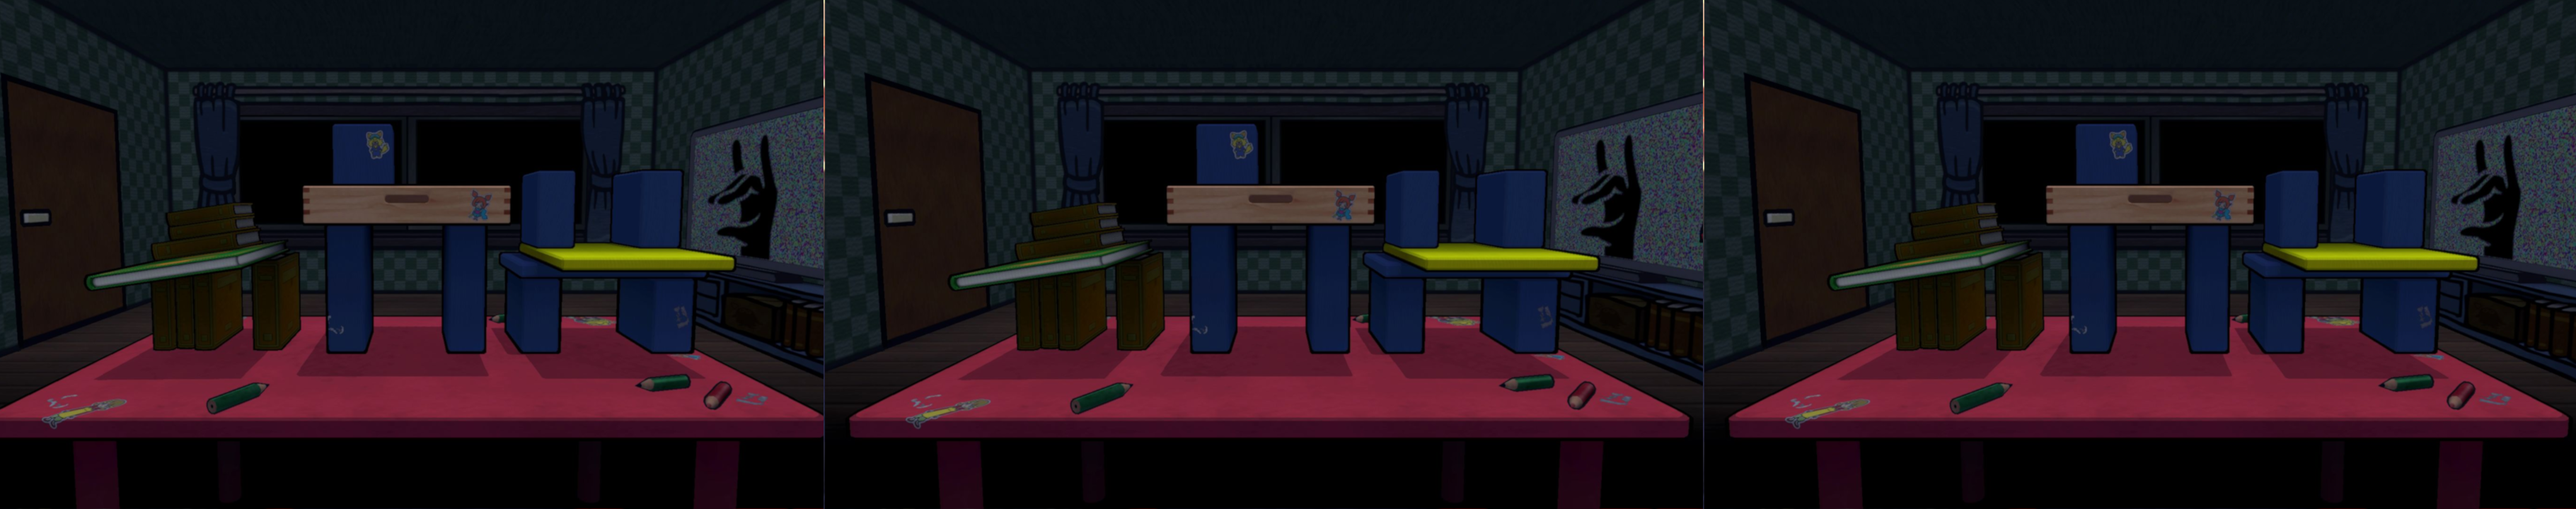
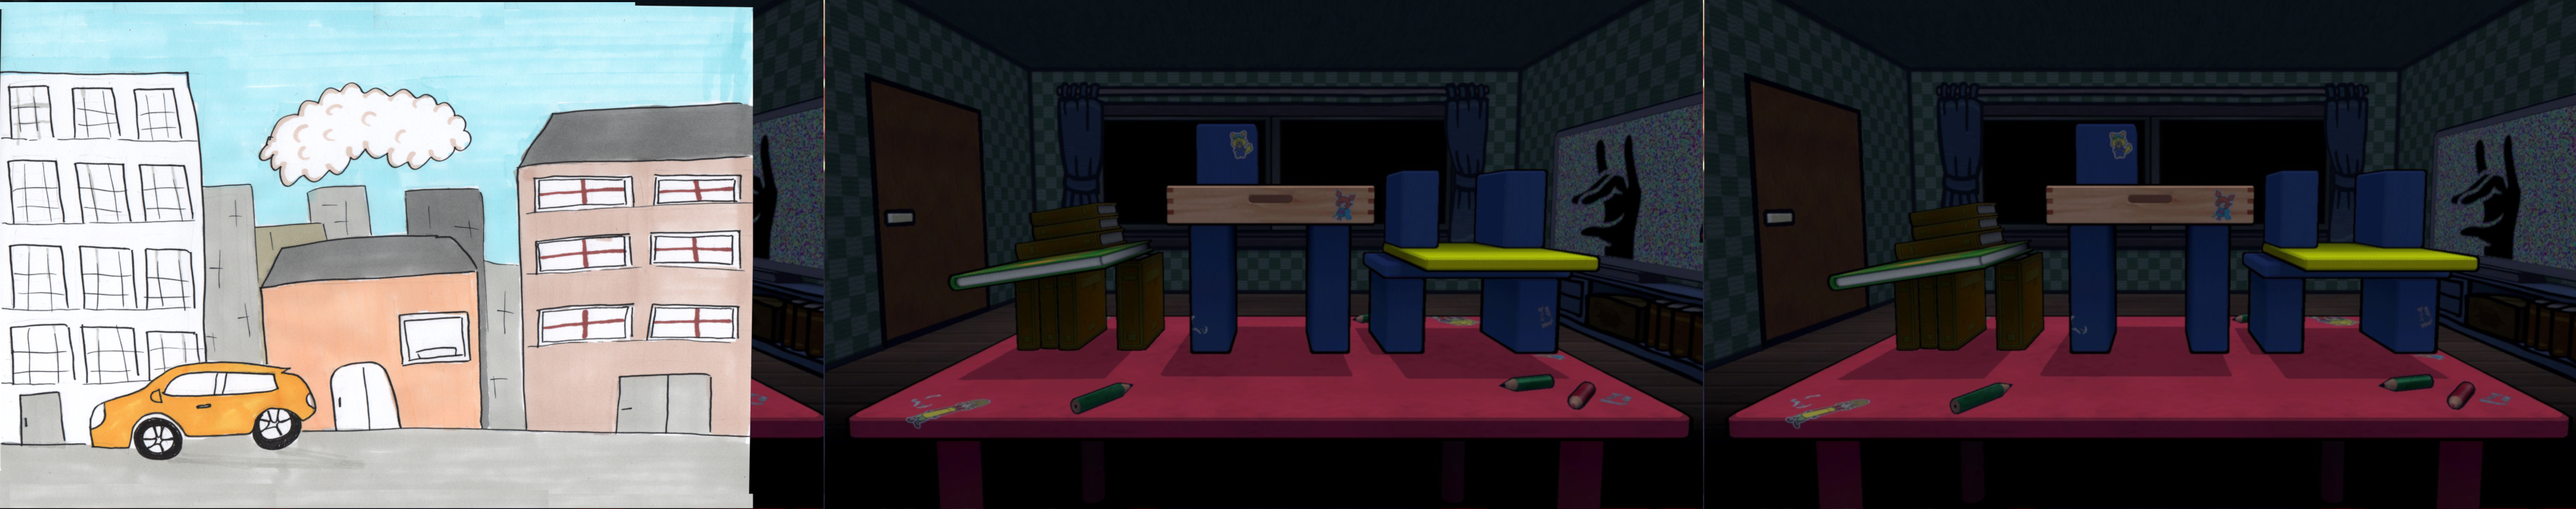
Ajout d'un debut de niveau 1 (mise en commentaire d'une partie du projectile car ça faisait planter le jeu)

Changed region(s): [[0.0, 0.0, 0.3104, 1.0]]

diff --git a/main.py b/main.py
@@ -72,7 +72,7 @@ class Joueur(pygame.sprite.Sprite):
         #Effectue le saut
         if len(platform_hit_list) > 0 or self.rect.bottom >= ECRAN_HAUTEUR:
             sonjump.play()
-            self.change_y = -10#-10 car les coordonnéés partent du haut, cela correspond à +10 dans un repère orthonormé classique
+            self.change_y = -13#-10 car les coordonnéés partent du haut, cela correspond à +10 dans un repère orthonormé classique
 
     def deplacement_gauche(self):
         self.change_x = -6 #on déplace le sprite de 6 pixels
@@ -91,12 +91,14 @@ class Projectile(pygame.sprite.Sprite):
         self.tir = False
     def update(self):
         if self.tir == True:
+            projectile.rect.x = joueur.rect.x + 30
+            projectile.rect.y = joueur.rect.y + 40
             projectile_list.draw(ecran)
             if gauche == False:
                 projectile.rect.x += 6
             else:
                 projectile.rect.x -= 6
-            if event.key == pygame.K_LEFT:
+            """if event.key == pygame.K_LEFT:
                 self.rect.x = joueur.rect.x- self.rect.x - self.rect.x
                 self.tir = False
             if event.key == pygame.K_RIGHT:
@@ -104,9 +106,7 @@ class Projectile(pygame.sprite.Sprite):
                 self.tir = False
             if self.rect.x > 600:
                 self.rect.x = joueur.rect.x
-                self.tir = False
-            
-                    
+                self.tir = False"""
                 
 class Platform(pygame.sprite.Sprite):
     def __init__(self, longueur, hauteur):
@@ -145,11 +145,12 @@ class Level_01(Level): #Classe Level 1 qui prend comme base la classe Level
         super().__init__(joueur)#On ajout les variables du init de Level dans cet init
         self.level_limit = -1000
 
-        level = [[100, 30, 100, 600],#plateformes du niveau
-                 [100, 30, 400, 700],#[longueur, largeur, x, y]
-                 [100, 30, 500, 500],
-                 [100, 30, 750, 400],
-                 [100, 30, 1000, 300],
+
+        level = [[100, 2, 20, 630],#plateformes du niveau
+                 [100, 2, 250, 510],#[longueur, largeur, x, y]
+                 [200, 2, 420, 338],
+                 [300, 2, 780, 150],
+                 [273, 2, 1, 100],
                  ]
 
         for platform in level:#pour toutes les plateformes dans la liste des plateformes du niveau
@@ -236,9 +237,6 @@ while continuer:
         pygame.display.update()
     #Boucle jeu
     while jeu:
-        if projectile.tir == False:
-            projectile.rect.x = joueur.rect.x + 30
-            projectile.rect.y = joueur.rect.y + 40
         for event in pygame.event.get():
             if event.type == pygame.QUIT:
                 continuer = False
